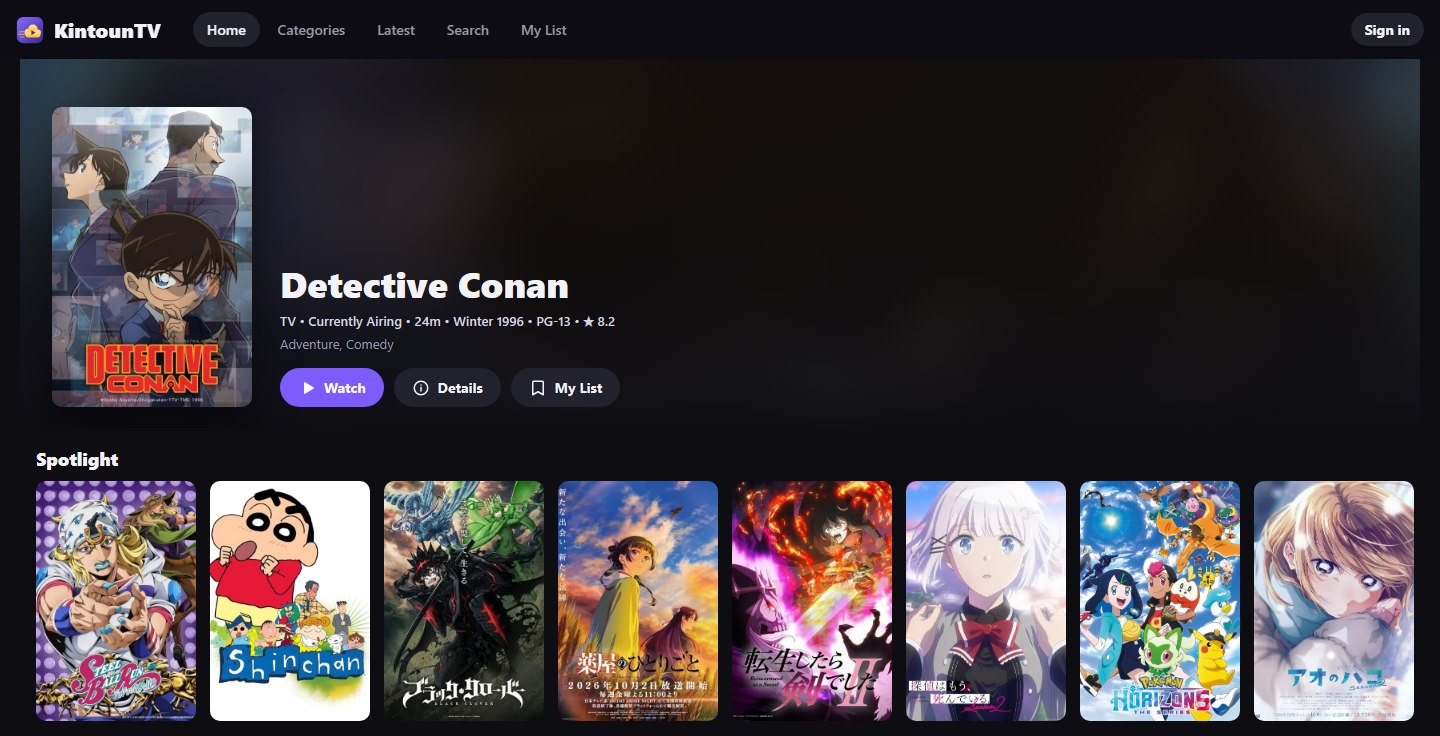
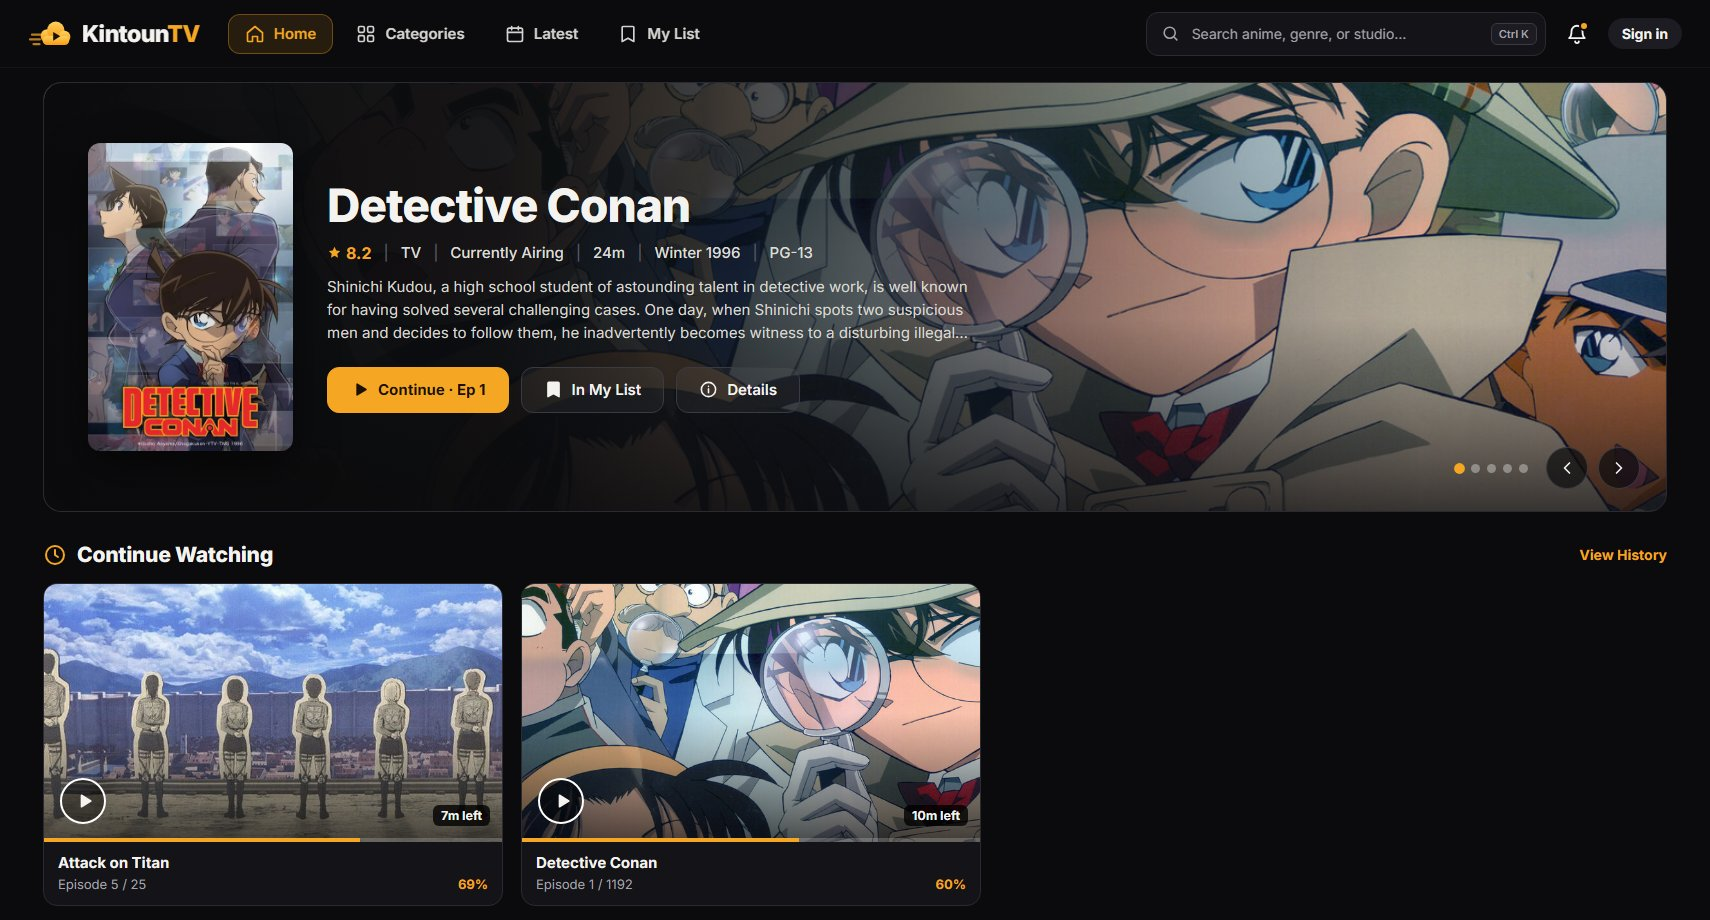
KintounTV 1.2.0: redesign

diff --git a/CHANGELOG.md b/CHANGELOG.md
@@ -3,6 +3,20 @@
 All notable changes to KintounTV. Versions follow [Semantic Versioning](https://semver.org);
 `npm run release` publishes the section matching the version in `package.json`.
 
+## 1.2.0 — 2026-10-19
+
+A full redesign.
+
+- **New look:** charcoal with orange-gold accents, the Inter typeface, and consistent cards, buttons,
+  focus rings, loading placeholders and fallbacks for missing artwork.
+- **Header:** icon navigation, a single search field (Ctrl + K), notifications and your profile.
+- **Home:** a featured carousel with wide artwork, Continue Watching as 16:9 cards (time left,
+  progress, episode and percentage), and Trending with genre filters.
+- **Every poster** now shows its title, rating, format and episode count.
+- **Notifications:** new episodes of airing shows in My List or Continue Watching.
+- **Pages:** Search with genre and year filters, Categories as a genre picker, release seasons on
+  Latest, and My List with format, status and sort filters and quick remove.
+
 ## 1.1.1 — 2026-10-19
 
 - **Watch order:** later TV series filed as "side stories" of a finished series now continue the

diff --git a/README.md b/README.md
@@ -28,6 +28,8 @@ cross-device sync.**
 ## Features
 
 - **Watch in the app.** No external player, no ads, no pop-ups and no analytics.
+- **Made for browsing.** Every poster shows its title, rating, format and episode count; search
+  with Ctrl + K, filter by genre, and get notified when airing shows you follow get new episodes.
 - **A real player.** Quality selection, subtitles when the stream has them, playback speed,
   keyboard shortcuts, and true fullscreen with controls that hide while you watch.
 - **Skips intros, recaps and credits** automatically, using community timings from
